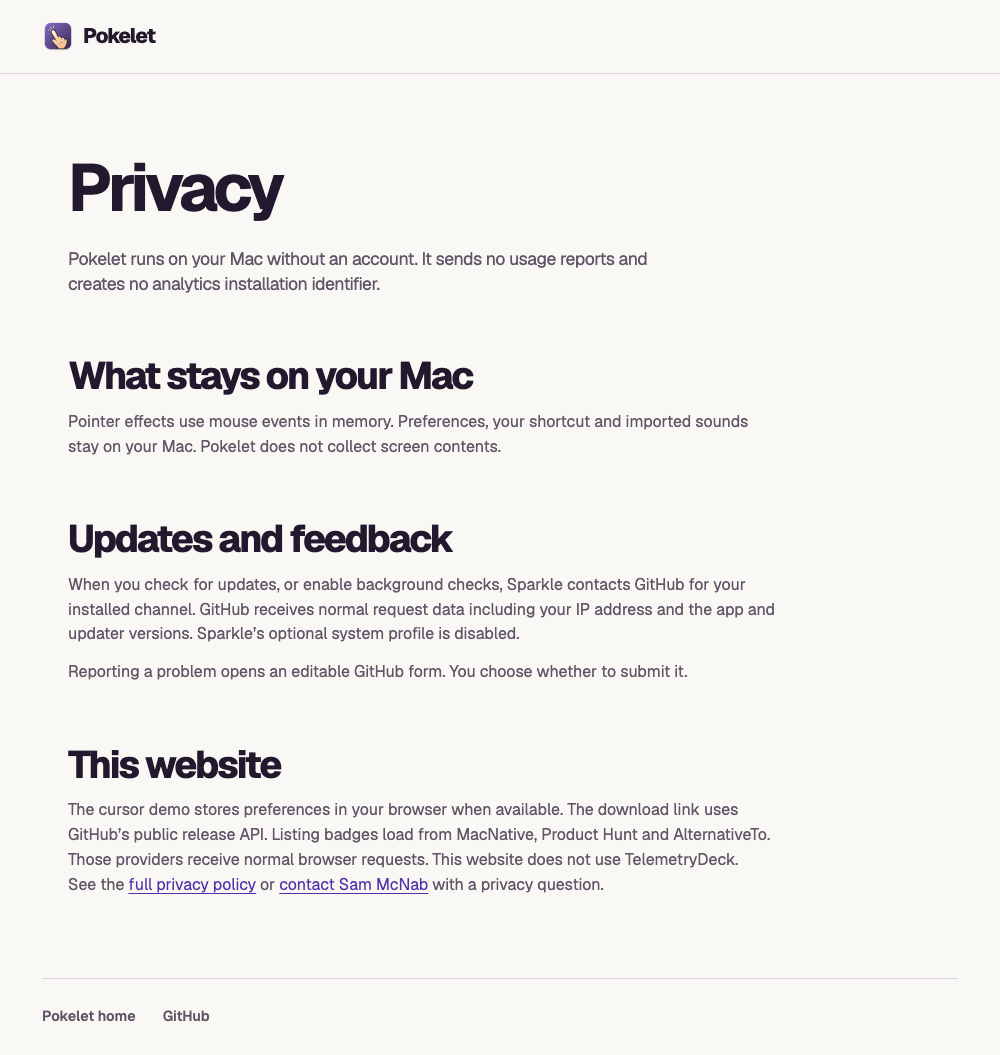
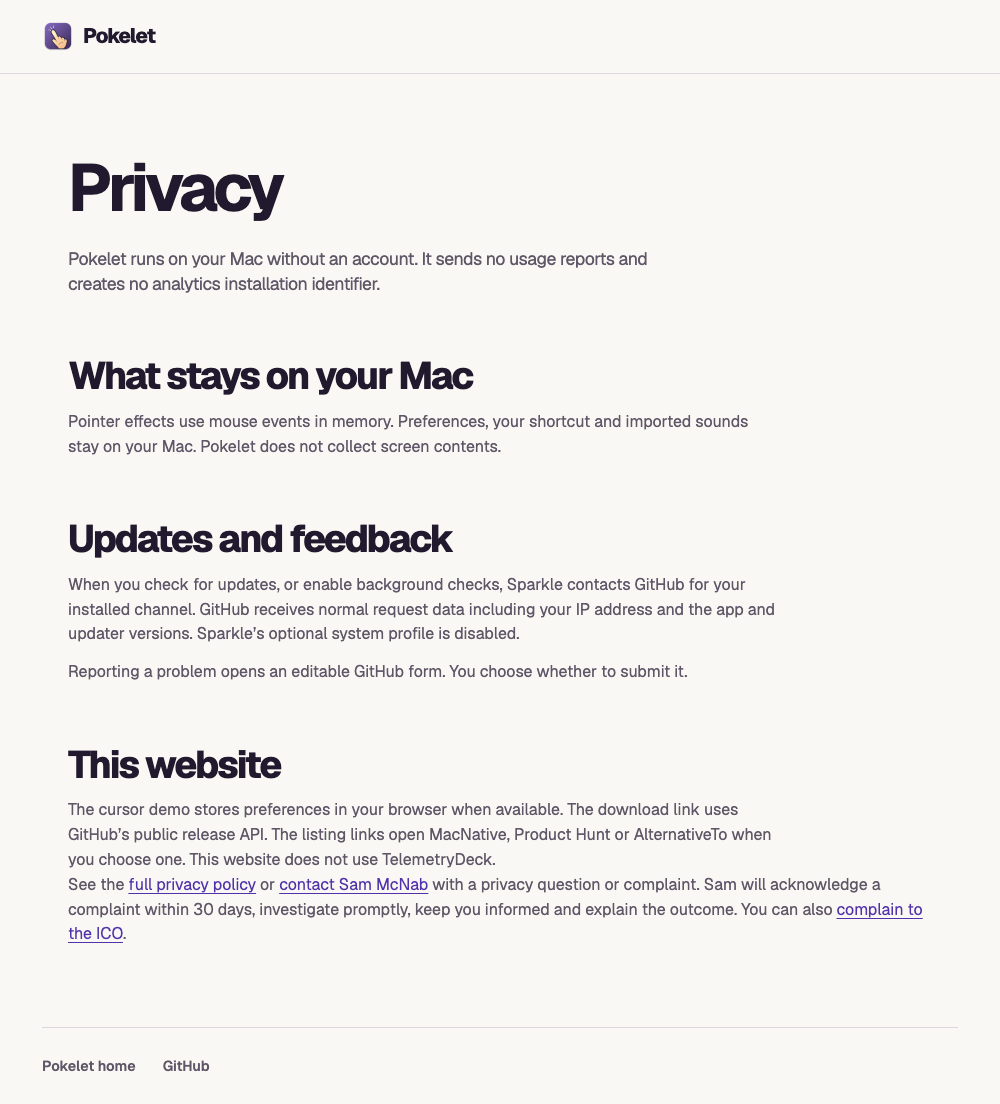
fix(site): avoid third-party badge requests and explain complaints

diff --git a/docs/site/index.html b/docs/site/index.html
@@ -135,55 +135,9 @@
           <div class="hero-listing">
             <span class="hero-listing-label">Also on</span>
 
-            <a
-              class="hero-listing-link"
-              href="https://macnative.io/apps/pokelet?utm_source=macnative-badge&utm_medium=referral"
-              target="_blank"
-              rel="noopener noreferrer"
-              aria-label="View Pokelet on MacNative"
-            >
-              <img
-                src="https://macnative.io/badge?kind=listed&amp;theme=dark&amp;slug=pokelet&amp;small=1&amp;rounded=1"
-                alt="Listed on MacNative"
-                width="160"
-                height="60"
-                fetchpriority="low"
-                decoding="async"
-              />
-            </a>
-            <a
-              class="hero-listing-link"
-              href="https://www.producthunt.com/products/pokelet?embed=true&amp;utm_source=badge-featured&amp;utm_medium=badge&amp;utm_campaign=badge-pokelet"
-              target="_blank"
-              rel="noopener noreferrer"
-              aria-label="View Pokelet on Product Hunt"
-            >
-              <img
-                src="https://api.producthunt.com/widgets/embed-image/v1/featured.svg?post_id=1326610&amp;theme=dark&amp;t=1795424503464"
-                alt="Listed on Product Hunt"
-                width="160"
-                height="60"
-                fetchpriority="low"
-                decoding="async"
-              >
-            </a>
-            <a
-              class="hero-listing-link"
-              href="https://alternativeto.net/software/pokelet/about/?utm_source=badge&utm_medium=referral"
-              target="_blank"
-              rel="noopener noreferrer"
-              aria-label="View Pokelet on AlternativeTo"
-            >
-              <img
-                src="https://alternativeto.net/static/badges/badge-compact-dark.svg"
-                alt="Listed on AlternativeTo"
-                width="140"
-                height="60"
-                style="width: 140px; height: 60px;"
-                fetchpriority="low"
-                decoding="async"
-              />
-            </a>
+            <a class="hero-listing-link" href="https://macnative.io/apps/pokelet" target="_blank" rel="noopener noreferrer">MacNative</a>
+            <a class="hero-listing-link" href="https://www.producthunt.com/products/pokelet" target="_blank" rel="noopener noreferrer">Product Hunt</a>
+            <a class="hero-listing-link" href="https://alternativeto.net/software/pokelet/about/" target="_blank" rel="noopener noreferrer">AlternativeTo</a>
           </div>
         </div>
       </div>

diff --git a/docs/site/privacy/index.html b/docs/site/privacy/index.html
@@ -35,9 +35,9 @@
 
     <section aria-labelledby="website">
       <h2 id="website">This website</h2>
-      <p>The cursor demo stores preferences in your browser when available. The download link uses GitHub’s public release API. Listing badges load from MacNative, Product Hunt and AlternativeTo. Those providers receive normal browser requests. This website does not use TelemetryDeck.</p>
+      <p>The cursor demo stores preferences in your browser when available. The download link uses GitHub’s public release API. The listing links open MacNative, Product Hunt or AlternativeTo when you choose one. This website does not use TelemetryDeck.</p>
     </section>
-    <p>See the <a href="https://github.com/smcnab1/pokelet/blob/main/PRIVACY.md">full privacy policy</a> or <a href="mailto:sam@sammcnab.co.uk">contact Sam McNab</a> with a privacy question.</p>
+    <p>See the <a href="https://github.com/smcnab1/pokelet/blob/main/PRIVACY.md">full privacy policy</a> or <a href="mailto:sam@sammcnab.co.uk">contact Sam McNab</a> with a privacy question or complaint. Sam will acknowledge a complaint within 30 days, investigate promptly, keep you informed and explain the outcome. You can also <a href="https://ico.org.uk/make-a-complaint/">complain to the ICO</a>.</p>
   </main>
   <footer class="wrap site-footer">
     <nav aria-label="Footer">

diff --git a/docs/site/style.css b/docs/site/style.css
@@ -274,36 +274,13 @@ p { color: var(--muted); }
 }
 
 .hero-listing-link {
-  display: inline-flex;
-  align-items: center;
-  border-radius: 999px;
-  transition:
-    transform 180ms ease,
-    filter 180ms ease;
+  color: inherit;
+  font-size: 0.85rem;
+  text-underline-offset: 0.2em;
 }
-
-.hero-listing-link img {
-  display: block;
-  width: 168px;
-  height: 44px;
-}
-
-@media (hover: hover) {
-  .hero-listing-link:hover {
-    transform: translateY(-2px);
-    filter: brightness(1.15);
-  }
-}
-
 .hero-listing-link:focus-visible {
   outline: 2px solid #c9a9f3;
   outline-offset: 4px;
-}
-
-@media (prefers-reduced-motion: reduce) {
-  .hero-listing-link {
-    transition: none;
-  }
 }
 
 .cursor-picker { grid-area: cursor; }

diff --git a/PRIVACY.md b/PRIVACY.md
@@ -22,4 +22,8 @@ Ordinary pointer use requires neither Accessibility nor Input Monitoring. Intera
 
 The [website](https://smcnab1.github.io/pokelet/) remembers cursor preferences in local storage when available. It asks GitHub’s public API for release metadata to resolve the download link and caches the answer briefly in your browser tab. Click sounds start muted each time you load the page.
 
-GitHub hosts releases, the Wiki, Discussions and issue forms. Opening those pages or submitting feedback is subject to [GitHub’s privacy statement](https://docs.github.com/en/site-policy/privacy-policies/github-general-privacy-statement). The website also loads MacNative, Product Hunt and AlternativeTo listing badges from those providers; your browser makes requests to them. Pokelet does not send native app usage data to these services.
+GitHub hosts releases, the Wiki, Discussions and issue forms. Opening those pages or submitting feedback is subject to [GitHub’s privacy statement](https://docs.github.com/en/site-policy/privacy-policies/github-general-privacy-statement). The website links to MacNative, Product Hunt and AlternativeTo. Your browser contacts those directories when you follow a link. Pokelet does not send native app usage data to these services.
+
+## Privacy questions and complaints
+
+Email [Sam McNab](mailto:sam@sammcnab.co.uk) with your concern. Sam will acknowledge complaints within 30 days, investigate without undue delay, keep you informed and explain the outcome. If you remain dissatisfied, you can [complain to the ICO](https://ico.org.uk/make-a-complaint/).
